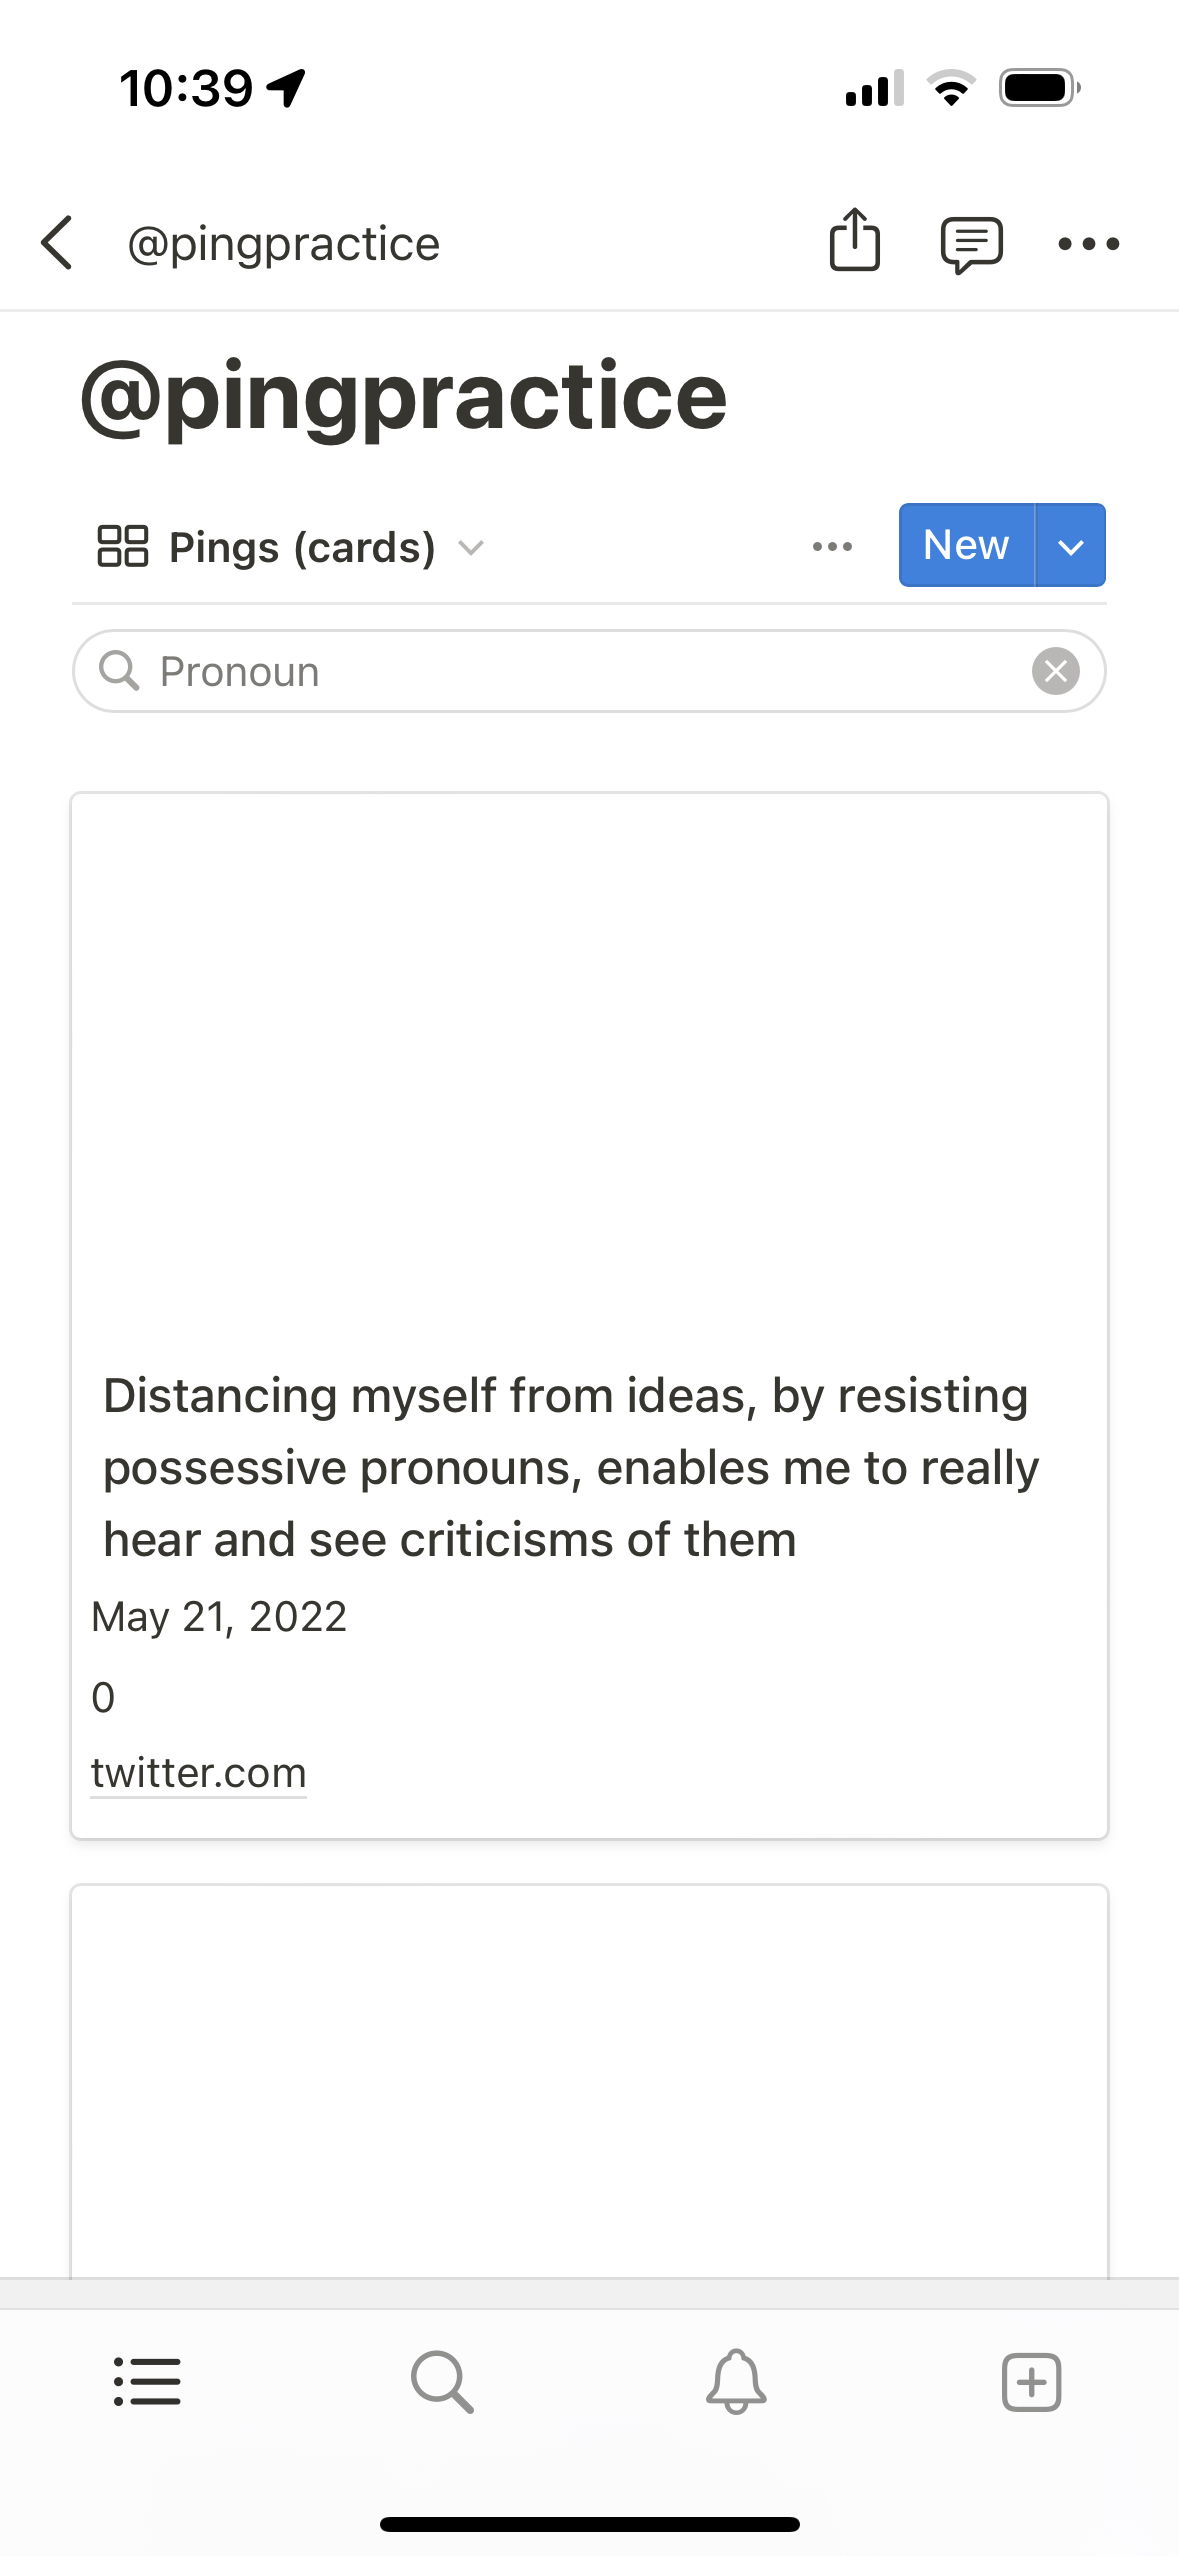
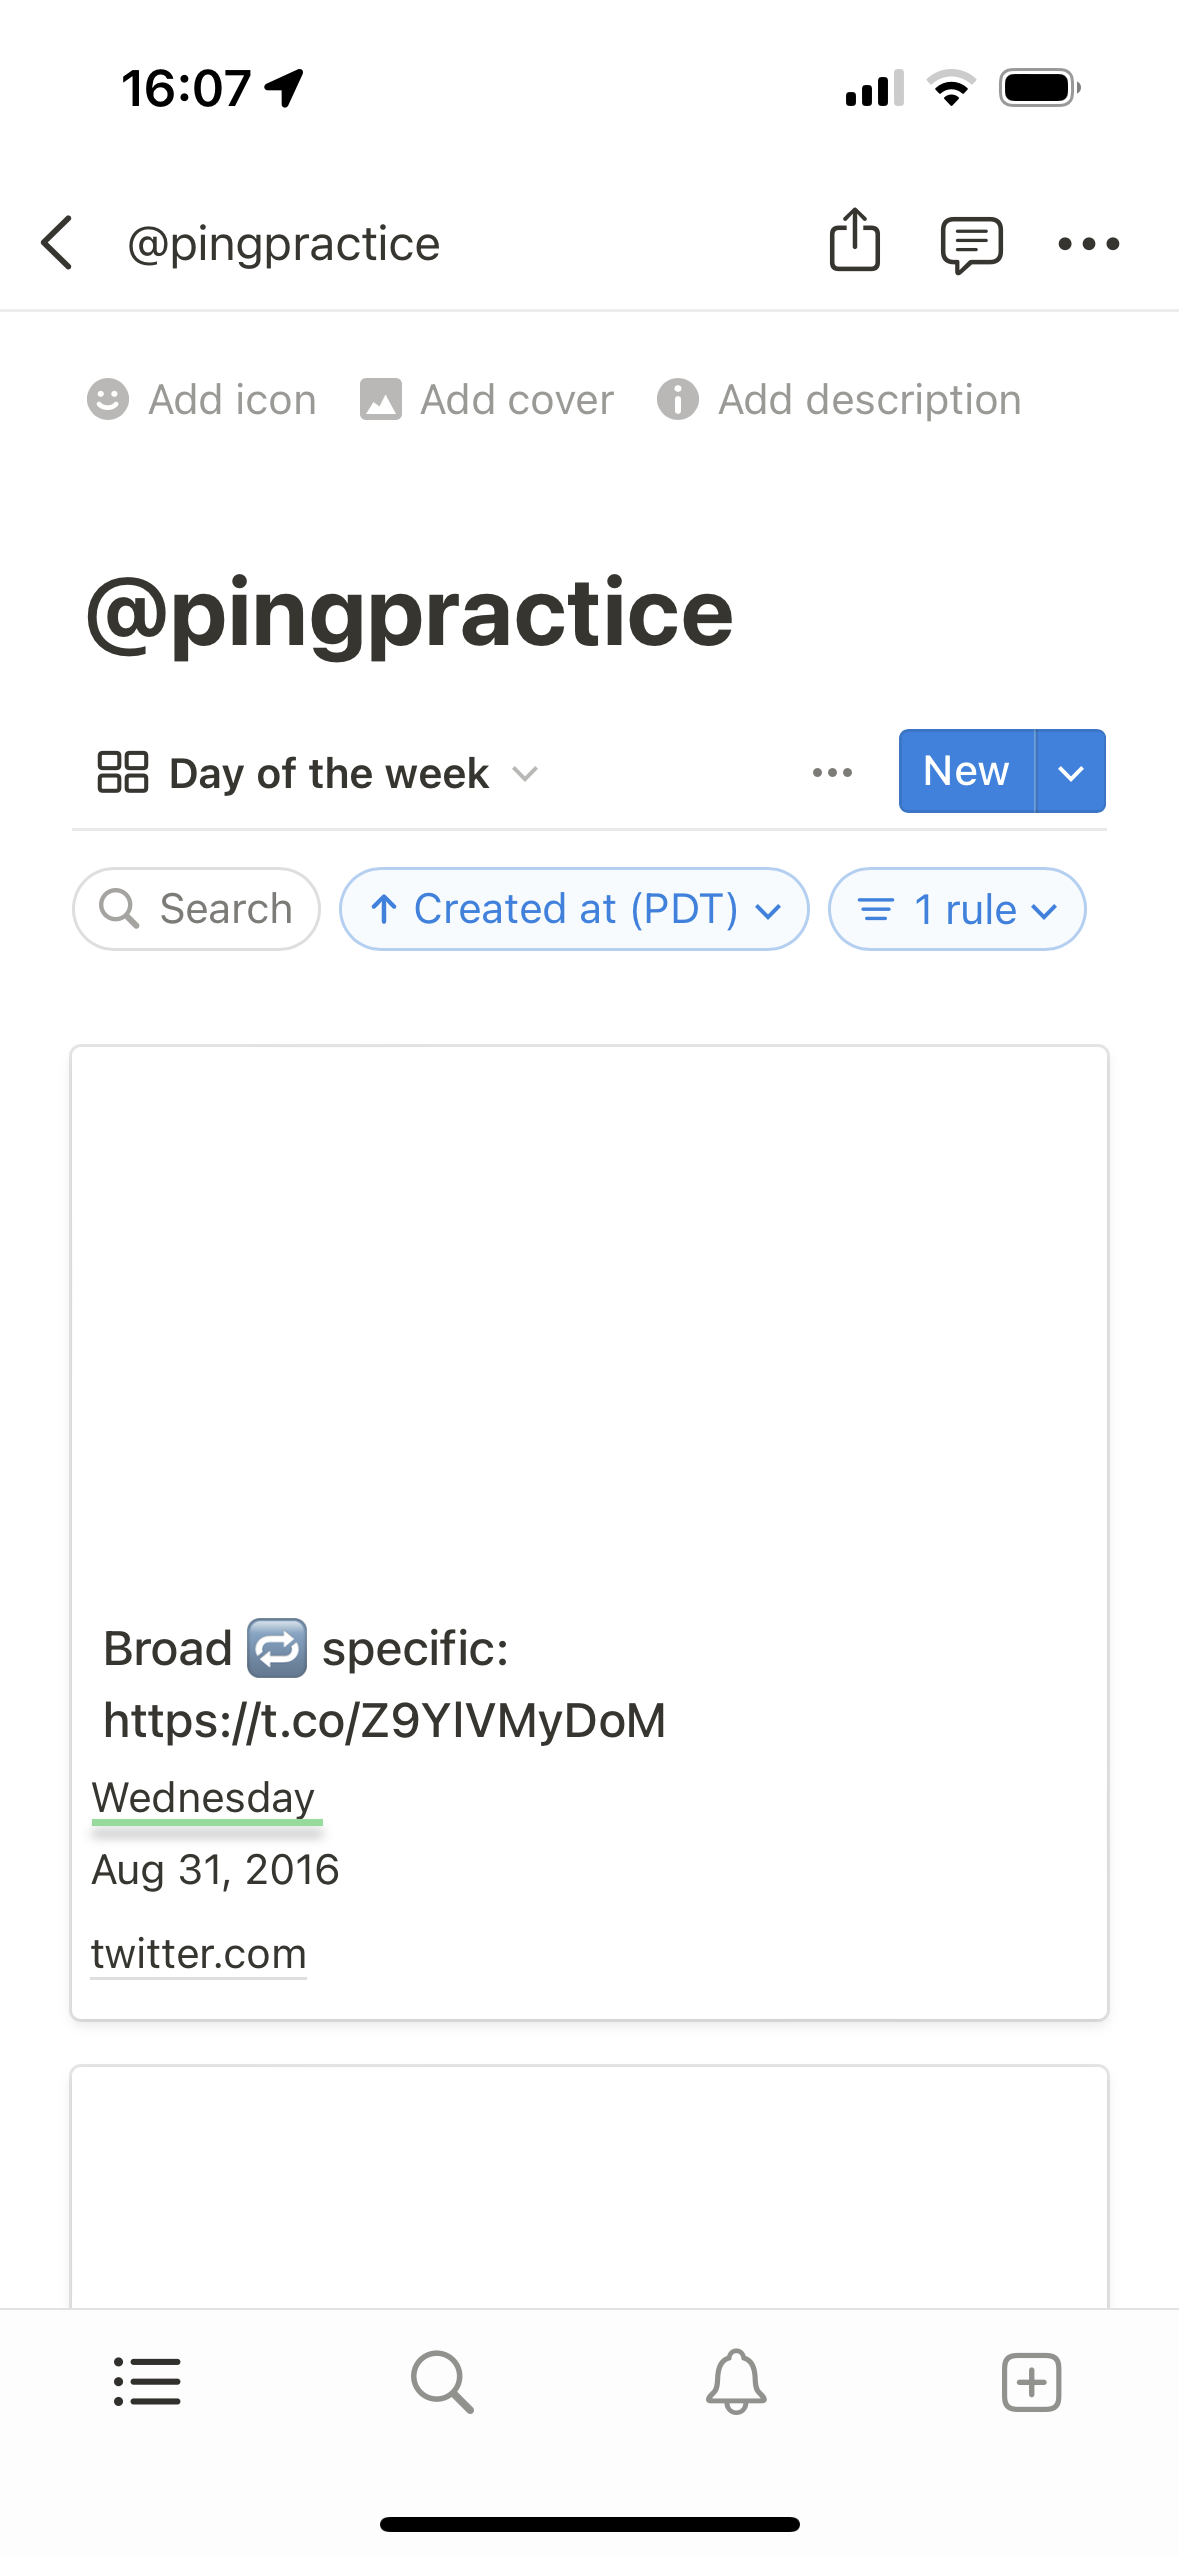
GITBOOK-166: change request with no subject merged in GitBook

diff --git a/experiment-twitter-+-notion.md b/experiment-twitter-+-notion.md
@@ -25,7 +25,7 @@ This experiment started on 10 April 2023.
 
 <summary>12 April</summary>
 
-<img src=".gitbook/assets/image (2).png" alt="A screenshot showing me searching the Notion database that stores the Tweets I send from the Twitter account I set up to facilitate the &#x22;capture&#x22; phase of the journaling method." data-size="original">
+<img src=".gitbook/assets/image (2) (2).png" alt="A screenshot showing me searching the Notion database that stores the Tweets I send from the Twitter account I set up to facilitate the &#x22;capture&#x22; phase of the journaling method." data-size="original">
 
 Just now, I was [saying something in @pingpractice](https://twitter.com/pingpractice/status/1646205350817955843?s=20). In the process, I noticed myself making a choice _not_ to use a possessive pronoun.  In making this choice, I thought to myself, "Oh this would be a good convention/pattern to name in the ["Personal syntax" are.na channel](https://www.are.na/peter-pelberg/personal-syntax) I started."
 
@@ -43,7 +43,7 @@ Before Monday, I would've gone directly to Twitter to attempt the search above w
 
 <summary>11 April</summary>
 
-![Screenshot showing the advance filter option Notion offers when accessing a database on the iOS app.](<.gitbook/assets/image (4).png>)![A screenshot showing all of the pings I've posted on a particular day of the week. In this case, Wednesday.](.gitbook/assets/image.png)
+![Screenshot showing the advance filter option Notion offers when accessing a database on the iOS app.](<.gitbook/assets/image (4).png>)![A screenshot showing all of the pings I've posted on a particular day of the week. In this case, Wednesday.](<.gitbook/assets/image (2).png>)
 
 I finished [this past Monday (10 April) feeling](https://twitter.com/pingpractice/status/1645606642724261888?s=20) similar to how I remember myself [feeling the Monday before (3 April)](https://twitter.com/pingpractice/status/1643057038199787520).
 

diff --git a/conversations/phase-2.md b/conversations/phase-2.md
@@ -4,6 +4,8 @@ description: Summary of the conversations the tappable prototype inspired.
 
 # Phase #2
 
+![A mockup of the app's start screen which prompts you to capture what you're noticing.](<../.gitbook/assets/image (5).png>)![A screenshot of a view within the app that allows you to browse cards one-by-one](<../.gitbook/assets/image (6).png>)![A screenshot of a view within the app that shows you a list of all the pings you've captured over time](<../.gitbook/assets/image (1).png>)
+
 During the winter of 2022, [David](https://www.davidgoligorsky.com/index.html) and I made a tappable prototype. The objective was to create a way for people to react to the ideas and assumptions latent within [the narrative](../app.md) that is informing the "shape" [the app](../app.md) takes on.
 
 21 people to tried the prototype in conversations that invited them to:
